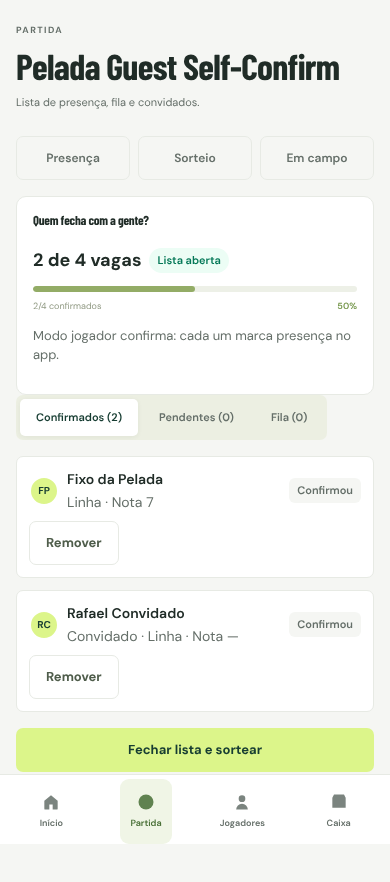
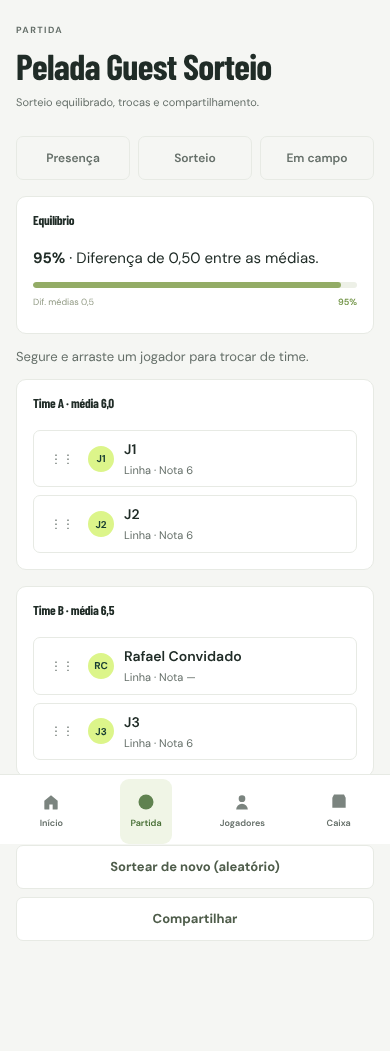
fix(presenca): trata falha ao carregar convidados e corrige evidência de sorteio
Codex Review apontou dois achados reais na PR #204:

- P1 (bloqueante): a evidência "04-sorteio-nome-real-do-convidado.png" era
  byte a byte idêntica à tela de presença (03), porque o teste Playwright
  nunca fechava a lista antes de navegar pro sorteio. Recapturado com o
  fluxo completo (confirmar fixos, fechar lista, sortear) mostrando o nome
  real do convidado numa equipe sorteada.
- P2: falha ao carregar /guests (outcome 'fallback') era ignorada em
  presenca-partida.component.ts — só o outcome de /players alimentava
  rosterLoadFailed/applyLoadedState. Agora o estado "roster ok" exige
  sucesso nos dois carregamentos, com teste de regressão cobrindo o caso
  em que o elenco carrega mas /guests falha.

Claude-Session: https://claude.ai/code/session_01GxqiRwFFFsDaxveMNgQnvN

diff --git a/apps/pelada-web/src/app/features/partida/presenca-partida.component.spec.ts b/apps/pelada-web/src/app/features/partida/presenca-partida.component.spec.ts
@@ -689,4 +689,97 @@ describe('PresencaPartidaComponent §3.4', () => {
     const snap = session.load('m1');
     expect(snap?.statusByPlayerId['a1']).toBe('confirmed');
   });
+
+  it('não apaga sessão quando só convidados falham (elenco ok, guests fallback)', async () => {
+    const session = TestBed.inject(PresenceSessionService);
+
+    await TestBed.resetTestingModule();
+    const refreshMembership3 = jasmine.createSpy('refreshMembership');
+    await TestBed.configureTestingModule({
+      imports: [PresencaPartidaComponent],
+      providers: [
+        provideRouter([{ path: 'partida/presenca', component: PresencaPartidaComponent }]),
+        {
+          provide: OAuthService,
+          useValue: { getIdentityClaims: () => ({ sub: 'test-presenca' }) },
+        },
+        {
+          provide: AuthService,
+          useValue: { getMe: () => Promise.resolve({ id: 'x', keycloakSub: 's', email: null, phone: null }) },
+        },
+        {
+          provide: PeladaDashboardService,
+          useValue: {
+            loadDashboard: (_p: unknown, cb: (v: InicioDashboardView) => void) => cb(dash),
+          },
+        },
+        {
+          provide: PeladaRosterService,
+          useValue: {
+            // Elenco carrega normalmente; só o endpoint /guests falha.
+            loadRoster: (
+              _p: unknown,
+              cb: (list: RosterPlayer[], outcome: 'api' | 'fallback') => void,
+            ) => cb([], 'api'),
+            loadGuests: (
+              _p: unknown,
+              cb: (list: RosterPlayer[], outcome: 'api' | 'fallback') => void,
+            ) => cb([], 'fallback'),
+          },
+        },
+        {
+          provide: PeladaOrganizadorContextService,
+          useValue: { isOrganizador: () => true, refreshMembership: refreshMembership3 },
+        },
+        {
+          provide: PeladaRulesService,
+          useValue: {
+            getDefaultRules: () => ({ ...DEFAULT_PELADA_RULES }),
+          },
+        },
+        {
+          provide: PeladaRulesApiService,
+          useValue: {
+            fetchRules: () => ({
+              subscribe: (handlers: { error?: () => void }) => handlers.error?.(),
+            }),
+            mapFromApi: (d: unknown) => d,
+          },
+        },
+        {
+          provide: PeladaMatchAttendanceService,
+          useValue: {
+            getList: () => throwError(() => new Error('offline')),
+            setSelf: () => throwError(() => new Error('offline')),
+            patchPlayer: () => of({ status: 'CONFIRMED' }),
+            closeList: () => of({}),
+            reopenList: () => of({}),
+          },
+        },
+        PresenceSessionService,
+      ],
+    }).compileComponents();
+    TestBed.inject(PeladaContextService).setActivePelada({
+      id: 'p1',
+      name: 'Pelada Teste',
+      defaultWeekday: null,
+      defaultLocation: '',
+      photoPreviewUrl: null,
+    });
+    session.save({
+      matchId: 'm1',
+      listClosed: false,
+      statusByPlayerId: { a1: 'confirmed' },
+      guests: [],
+      extraPlayers: [],
+      queueOrder: [],
+      presenceMode: 'ORGANIZER_CLOSES',
+    });
+
+    const fixture3 = TestBed.createComponent(PresencaPartidaComponent);
+    fixture3.detectChanges();
+    const snap = session.load('m1');
+    expect(snap?.statusByPlayerId['a1']).toBe('confirmed');
+    expect(fixture3.componentInstance.rosterLoadFailed()).toBe(true);
+  });
 });

diff --git a/apps/pelada-web/src/app/features/partida/presenca-partida.component.ts b/apps/pelada-web/src/app/features/partida/presenca-partida.component.ts
@@ -542,10 +542,11 @@ export class PresencaPartidaComponent implements OnInit {
         // `loadGuests` também devolve convidado avulso de partida (requestGuest,
         // sem conta) — esse fica de fora (igual ensureAttendanceRows no backend),
         // senão sobra como linha fantasma pendente em partidas futuras.
-        this.rosterService.loadGuests(pelada, (guests) => {
+        this.rosterService.loadGuests(pelada, (guests, guestsOutcome) => {
           const linkedGuests = guests.filter((g) => g.userId != null);
-          this.rosterLoadFailed.set(outcome === 'fallback');
-          this.applyLoadedState(dash, [...players, ...linkedGuests], outcome === 'api');
+          const rosterOk = outcome === 'api' && guestsOutcome === 'api';
+          this.rosterLoadFailed.set(!rosterOk);
+          this.applyLoadedState(dash, [...players, ...linkedGuests], rosterOk);
           this.loading.set(false);
         });
       });
